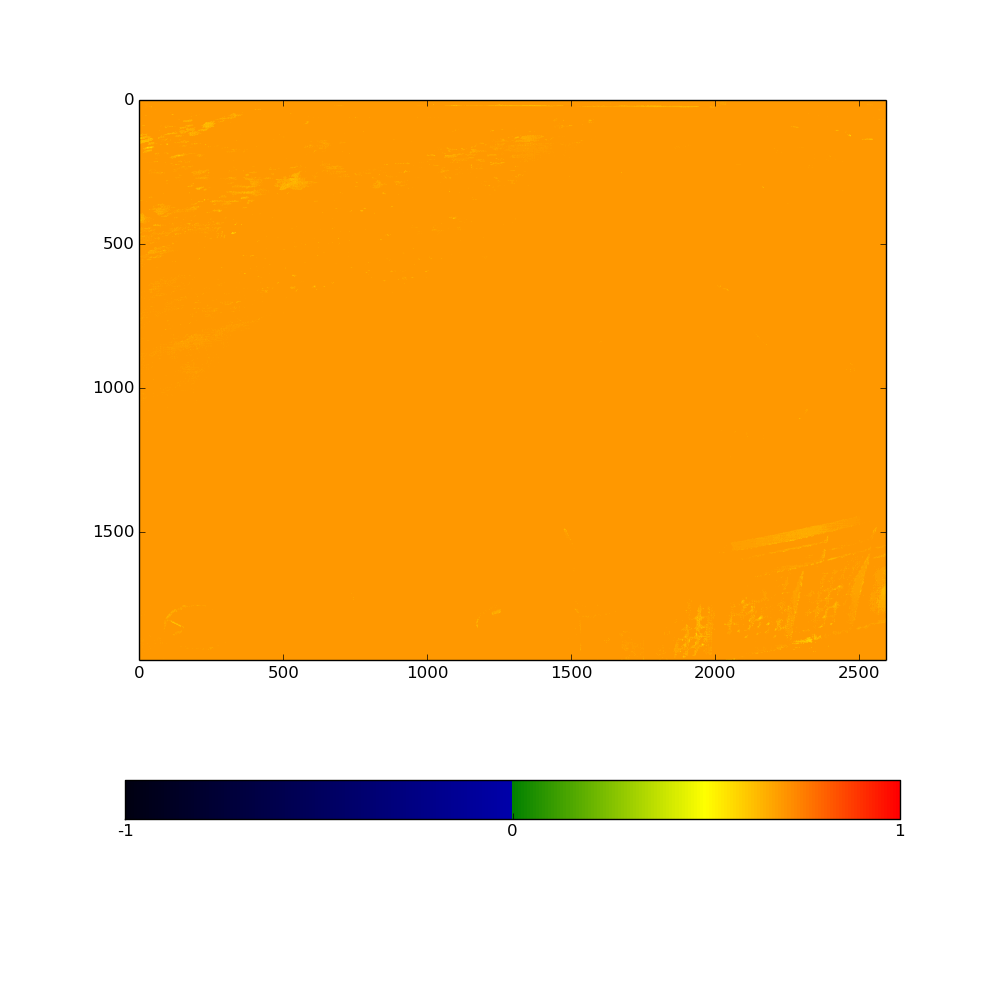
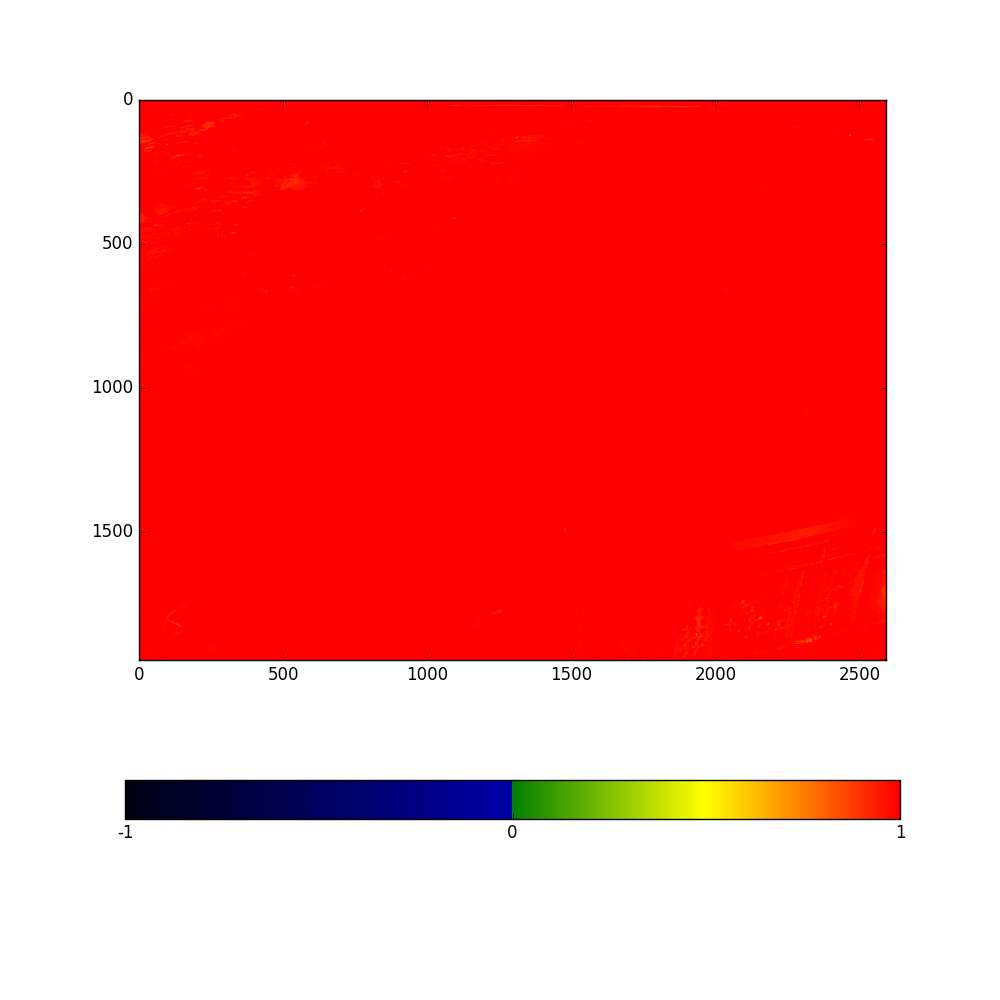
integration web app

diff --git a/funciones.py b/funciones.py
@@ -147,9 +147,9 @@ def calculateNDVI(VISframe, IRframe, grading,original,nombre):
     print "ndviProbeuno"
     NDVIframe = fraction
     #NDVIframe = ndvi
-    cv2.imshow('NDVImetodo2',NDVIframe)
-    cv2.imwrite('NDVImetodo2.jpg',NDVIframe)
-    colorMap.colorGradeBGRMatPlot(fraction,nombre)
+    #cv2.imshow('NDVImetodo2',NDVIframe)
+    #cv2.imwrite('NDVImetodo2.jpg',NDVIframe)
+    
 
     # apply additional grading
     if grading == "BG":
@@ -184,7 +184,7 @@ def loadImageAndNDVI(img,nombre):
 
 	# calculate the ndvi and get the color graded version
 	ndvi1, ndvi2 = calculateNDVI(RED,IR,"BGR",img,nombre)
-
+	colorMap.colorGradeBGRMatPlot(ndvi1,nombre,1)
 	# scale the NDVI from [-1;1] to [0;1] for propper display
 	ndvi1 = cv2.add(ndvi1, 1.0)
 	ndvi1 = cv2.divide(ndvi1, 2.0)
@@ -216,13 +216,13 @@ def loadImageAndNDVI(img,nombre):
 	cv2.imwrite("ResultadosNDVI/"+nombre+"NDVIColorMap.jpg",intNDVI2)
 	print "finalizadoNDVI"
 
-def loadImageAndNDVIUnaImagenAWB11(img,nombre):
+def loadImageAndNDVIUnaImagenAWB11(img,nombre,pathproject):
 	print "IMGAnDNDVI"
 	
 	IR,g,RED = cv2.split(img)
 	#print img.shape
         IR = IR
-	cv2.imwrite('Bandas/'+nombre+'REDPrev.jpg',RED)
+	cv2.imwrite(pathproject+'Bandas/'+nombre+'REDPrev.jpg',RED)
 	RED = RED.astype('int')-g.astype('int')*1.1
 	#RED = cv2.equalizeHist(RED)
 	
@@ -233,41 +233,17 @@ def loadImageAndNDVIUnaImagenAWB11(img,nombre):
 	#cv2.imshow("IR",RED)
 	
 	img = cv2.merge((IR.astype('int'),g.astype('int'),RED.astype('int')))
-	cv2.imwrite('ResultantesNGB/'+nombre+'imgResultante.jpg',img)
+	cv2.imwrite(pathproject+'ResultantesNGB/'+nombre+'imgResultante.jpg',img)
 
-	cv2.imwrite('Bandas/'+nombre+'IR.jpg',IR)
+	cv2.imwrite(pathproject+'Bandas/'+nombre+'IR.jpg',IR)
 	#cv2.imshow("Blue",b)	
-	cv2.imwrite('Bandas/'+nombre+'RED.jpg',RED)
+	cv2.imwrite(pathproject+'Bandas/'+nombre+'RED.jpg',RED)
 	#cv2.imshow("Green",g)
-	cv2.imwrite("Bandas/"+nombre+"Green.jpg",g)
+	cv2.imwrite(pathproject+"Bandas/"+nombre+"Green.jpg",g)
 	# calculate the ndvi and get the color graded version
 	ndvi1, ndvi2 = calculateNDVI(RED,IR,"BGR",img,nombre)
-
+	colorMap.colorGradeBGRMatPlot(ndvi1,nombre,1,pathproject)
 	# scale the NDVI from [-1;1] to [0;1] for propper display
-	ndvi1 = cv2.add(ndvi1, 1.0)
-	ndvi1 = cv2.divide(ndvi1, 2.0)
-	
-	# show the results
-	cv2.imshow("NDVI",ndvi1)
-	cv2.imshow("NDVI2",ndvi2)
-
-	#transpose to [0;255] to save as 8bit
-	ndvi1 = cv2.multiply(ndvi1, 255)
-
-	ndvi2 = cv2.multiply(ndvi2, np.array([255.0,255.0,255.0,0.0]))
-	#print "ndvi2"
-	#print ndvi1
-	
-	# convert back to 8bit
-	intNDVI = ndvi1.astype(np.uint8)
-	intNDVI2 = ndvi2.astype(np.uint8)
-	img_map =  cv2.applyColorMap (intNDVI, cv2.COLORMAP_HSV)
-	#cv2.imshow("COLORMAP",img_map)
-	# write to disc
-        print "writing Images"
-	cv2.imwrite("ResultadosNDVI/"+nombre+"NDVIcolormapHSV.jpg",img_map)
-	cv2.imwrite("ResultadosNDVI/"+nombre+"NDVIGray.jpg",intNDVI)
-	cv2.imwrite("ResultadosNDVI/"+nombre+"NDVIColorMap.jpg",intNDVI2)
 	print "finalizadoNDVI"
 
 def loadImageAndNDVIFilterBlue(img,nombre):
@@ -290,7 +266,7 @@ def loadImageAndNDVIFilterBlue(img,nombre):
 
 	# calculate the ndvi and get the color graded version
 	ndvi1, ndvi2 = calculateNDVI(blue,IR,"BGR",img,nombre)
-
+	colorMap.colorGradeBGRMatPlot(ndvi1,nombre,1)
 	# scale the NDVI from [-1;1] to [0;1] for propper display
 	ndvi1 = cv2.add(ndvi1, 1.0)
 	ndvi1 = cv2.divide(ndvi1, 2.0)
@@ -340,6 +316,7 @@ def loadImageAndNDVIFilterBlueAWB11(img,nombre):
 
 	# calculate the ndvi and get the color graded version
 	ndvi1, ndvi2 = calculateNDVI(blue,IR,"BGR",img,nombre)
+	colorMap.colorGradeBGRMatPlot(ndvi1,nombre,1)
 #	cv2.imwrite('Bandas/'+nombre+'REDPrev.jpg',blue)
 	cv2.imwrite('Bandas/pruebasFiltroAzul/'+nombre+'IR.jpg',IR)
 	#cv2.imshow("Blue",b)	

diff --git a/CalcNDVIFilterRedAwb11.py b/CalcNDVIFilterRedAwb11.py
@@ -1,20 +1,24 @@
+import sys
+
+sys.path.append('/usr/local/lib/python2.7/site-packages')
 import time
 import numpy as np
 from matplotlib import pyplot as plt
 import cv2
 import funciones
 
+print sys.argv
 
+pathproject=sys.argv[1]
 base='probes/'
 nombre='yaguara1'
 extension='.jpg'
-imgOriginal = cv2.imread(base+nombre+extension)            # read next frame
+imgOriginal = cv2.imread(pathproject+base+nombre+extension)            # read next frame
 b, g, r = cv2.split(imgOriginal)
 #cv2.imshow('Original',imgOriginal)
-cv2.imwrite('original.jpg',imgOriginal)
 
 #funciones.loadImageAndNDVIUnaImagenAWB11(imgOriginal,nombre)
-funciones.loadImageAndNDVIUnaImagenAWB11(imgOriginal,nombre)
+funciones.loadImageAndNDVIUnaImagenAWB11(imgOriginal,nombre,pathproject)
 
 #plt.show()
 c = cv2.waitKey(7) % 0x100

diff --git a/colorMap.py b/colorMap.py
@@ -2,8 +2,8 @@ import matplotlib.pyplot as plt
 import numpy as np
 from matplotlib.colors import LinearSegmentedColormap
 
-def colorGradeBGRMatPlot(ndvi,nombre):
-	ndvi=ndvi
+def colorGradeBGRMatPlot(ndvi,nombre,multiplo,pathproject):
+	ndvi=ndvi*multiplo
 	data=ndvi+1
 	
 	#mask = np.tri(data.shape[0], k=-6)
@@ -29,6 +29,6 @@ def colorGradeBGRMatPlot(ndvi,nombre):
 	cbar = fig.colorbar(im, ticks=[0, 1, 2], orientation='horizontal')
 	cbar.ax.set_xticklabels(['-1', '0', '1',])  # horizontal colorbar
 	print "hola4"
-	plt.savefig("ResultadosNDVI/ResMatPlot/"+nombre+"MatploTNDVI.png")	
+	plt.savefig(pathproject+"ResultadosNDVI/ResMatPlot/"+nombre+"MatploTNDVI.png")	
 	plt.show()
 	

diff --git a/separacion.py b/separacion.py
@@ -1,3 +1,7 @@
+
+import sys
+sys.path.append('/usr/lib/python2.7/site-packages')
+print sys.path
 import time
 import numpy as np
 from matplotlib import pyplot as plt
